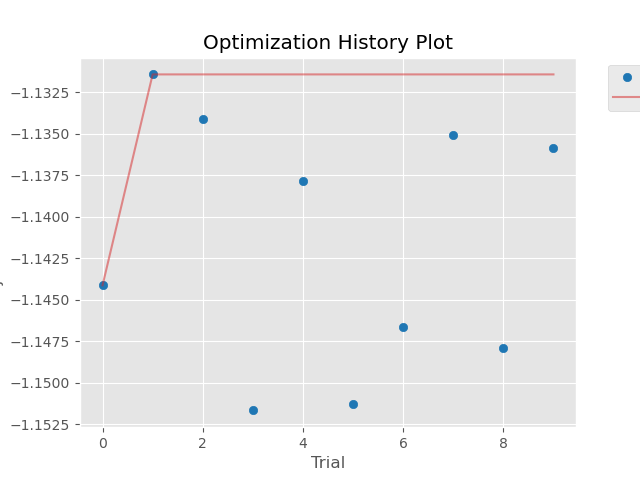
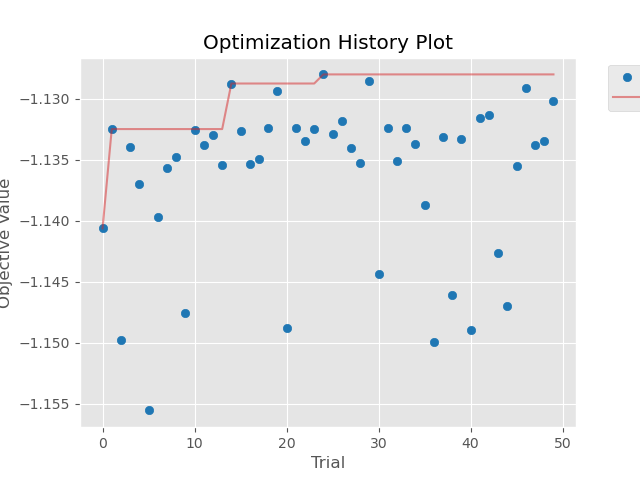
[not for grading] Larger run for hyperparameter optimization.
Performance seems to saturate quickly. We still see that learning rate dominates in importance alongside hidden dimensions.

I think there are more sophisticated approaches we can try for learning rate since it's so important here but in general this type of exploration should be done with several architectures.

diff --git a/hyperparameter_optimization/.ipynb_checkpoints/hyperparameter_optimization-checkpoint.py b/hyperparameter_optimization/.ipynb_checkpoints/hyperparameter_optimization-checkpoint.py
@@ -12,6 +12,7 @@ import logging
 import optuna
 import matplotlib.pyplot as plt
 
+from tqdm import trange
 from torch.utils.data import random_split, DataLoader
 from torch_geometric.data import Data, Batch
 from torch_geometric.nn import TransformerConv, LayerNorm
@@ -23,8 +24,8 @@ from torch_geometric.utils import negative_sampling
 SEED = 42
 TRAIN_JSON = "../raw_data/stanford-covid-vaccine/train.json"
 RESULTS_DIR = "results_hpo"
-N_TRIALS = 10
-EPOCHS = 50
+N_TRIALS = 50
+EPOCHS = 100
 PATIENCE = 10
 BATCH_SIZE = 16
 LR_BASE = 1e-3
@@ -215,7 +216,7 @@ def mask_mse_loss(pred, y, batch_graph, seq_scored_list):
         return torch.tensor(0.0, device=device)
     return loss_sum/count
 
-def train_epoch(model, loader, optimizer):
+def train_epoch(model, loader, optimizer, grad_clip):
     model.train()
     total_loss = 0.0
     steps = 0
@@ -226,7 +227,7 @@ def train_epoch(model, loader, optimizer):
         pred = model(batch.x, batch.edge_index)
         loss = mask_mse_loss(pred, batch.y, batch.batch, seq_scored_tensor)
         loss.backward()
-        torch.nn.utils.clip_grad_norm_(model.parameters(), GRAD_CLIP)
+        torch.nn.utils.clip_grad_norm_(model.parameters(), grad_clip)
         optimizer.step()
         total_loss += loss.item()
         steps += 1
@@ -252,19 +253,21 @@ def eval_epoch(model, loader):
 def objective(trial):
     # Hyperparams to tune
     hid_dim = trial.suggest_categorical('hid_dim', [64,128,256])
-    layers = trial.suggest_int('layers', 2,4)
-    heads = trial.suggest_categorical('heads', [2,4,8])
+    layers = trial.suggest_int('layers', 2,6)
+    heads = trial.suggest_categorical('heads', [2,4,8,16])
     dropout = trial.suggest_float('dropout', 0.0, 0.5, step=0.1)
     lr = trial.suggest_float('lr', 1e-4, 1e-2, log=True)
+    weight_decay = trial.suggest_float('weight_decay', 1e-5, 1e-3, log=True)
+    grad_clip = trial.suggest_float('grad_clip', 1.0, 10.0, step=1.0)
 
     model = GNNModel(in_dim=15, out_dim=5, hid_dim=hid_dim, layers=layers, heads=heads, dropout=dropout).to(DEVICE)
-    optimizer = optim.Adam(model.parameters(), lr=lr, weight_decay=WEIGHT_DECAY)
+    optimizer = optim.Adam(model.parameters(), lr=lr, weight_decay=weight_decay)
 
     best_val_loss = float('inf')
     patience_counter = 0
 
-    for epoch in range(EPOCHS):
-        train_loss = train_epoch(model, train_loader, optimizer)
+    for epoch in trange(EPOCHS, desc=f"Trial {trial.number+1}/{N_TRIALS}"):
+        train_loss = train_epoch(model, train_loader, optimizer, grad_clip)
         val_loss = eval_epoch(model, val_loader)
 
         trial.report(val_loss, epoch)

diff --git a/hyperparameter_optimization/hyperparameter_optimization.py b/hyperparameter_optimization/hyperparameter_optimization.py
@@ -12,6 +12,7 @@ import logging
 import optuna
 import matplotlib.pyplot as plt
 
+from tqdm import trange
 from torch.utils.data import random_split, DataLoader
 from torch_geometric.data import Data, Batch
 from torch_geometric.nn import TransformerConv, LayerNorm
@@ -23,8 +24,8 @@ from torch_geometric.utils import negative_sampling
 SEED = 42
 TRAIN_JSON = "../raw_data/stanford-covid-vaccine/train.json"
 RESULTS_DIR = "results_hpo"
-N_TRIALS = 10
-EPOCHS = 50
+N_TRIALS = 50
+EPOCHS = 100
 PATIENCE = 10
 BATCH_SIZE = 16
 LR_BASE = 1e-3
@@ -215,7 +216,7 @@ def mask_mse_loss(pred, y, batch_graph, seq_scored_list):
         return torch.tensor(0.0, device=device)
     return loss_sum/count
 
-def train_epoch(model, loader, optimizer):
+def train_epoch(model, loader, optimizer, grad_clip):
     model.train()
     total_loss = 0.0
     steps = 0
@@ -226,7 +227,7 @@ def train_epoch(model, loader, optimizer):
         pred = model(batch.x, batch.edge_index)
         loss = mask_mse_loss(pred, batch.y, batch.batch, seq_scored_tensor)
         loss.backward()
-        torch.nn.utils.clip_grad_norm_(model.parameters(), GRAD_CLIP)
+        torch.nn.utils.clip_grad_norm_(model.parameters(), grad_clip)
         optimizer.step()
         total_loss += loss.item()
         steps += 1
@@ -252,19 +253,21 @@ def eval_epoch(model, loader):
 def objective(trial):
     # Hyperparams to tune
     hid_dim = trial.suggest_categorical('hid_dim', [64,128,256])
-    layers = trial.suggest_int('layers', 2,4)
-    heads = trial.suggest_categorical('heads', [2,4,8])
+    layers = trial.suggest_int('layers', 2,6)
+    heads = trial.suggest_categorical('heads', [2,4,8,16])
     dropout = trial.suggest_float('dropout', 0.0, 0.5, step=0.1)
     lr = trial.suggest_float('lr', 1e-4, 1e-2, log=True)
+    weight_decay = trial.suggest_float('weight_decay', 1e-5, 1e-3, log=True)
+    grad_clip = trial.suggest_float('grad_clip', 1.0, 10.0, step=1.0)
 
     model = GNNModel(in_dim=15, out_dim=5, hid_dim=hid_dim, layers=layers, heads=heads, dropout=dropout).to(DEVICE)
-    optimizer = optim.Adam(model.parameters(), lr=lr, weight_decay=WEIGHT_DECAY)
+    optimizer = optim.Adam(model.parameters(), lr=lr, weight_decay=weight_decay)
 
     best_val_loss = float('inf')
     patience_counter = 0
 
-    for epoch in range(EPOCHS):
-        train_loss = train_epoch(model, train_loader, optimizer)
+    for epoch in trange(EPOCHS, desc=f"Trial {trial.number+1}/{N_TRIALS}"):
+        train_loss = train_epoch(model, train_loader, optimizer, grad_clip)
         val_loss = eval_epoch(model, val_loader)
 
         trial.report(val_loss, epoch)
